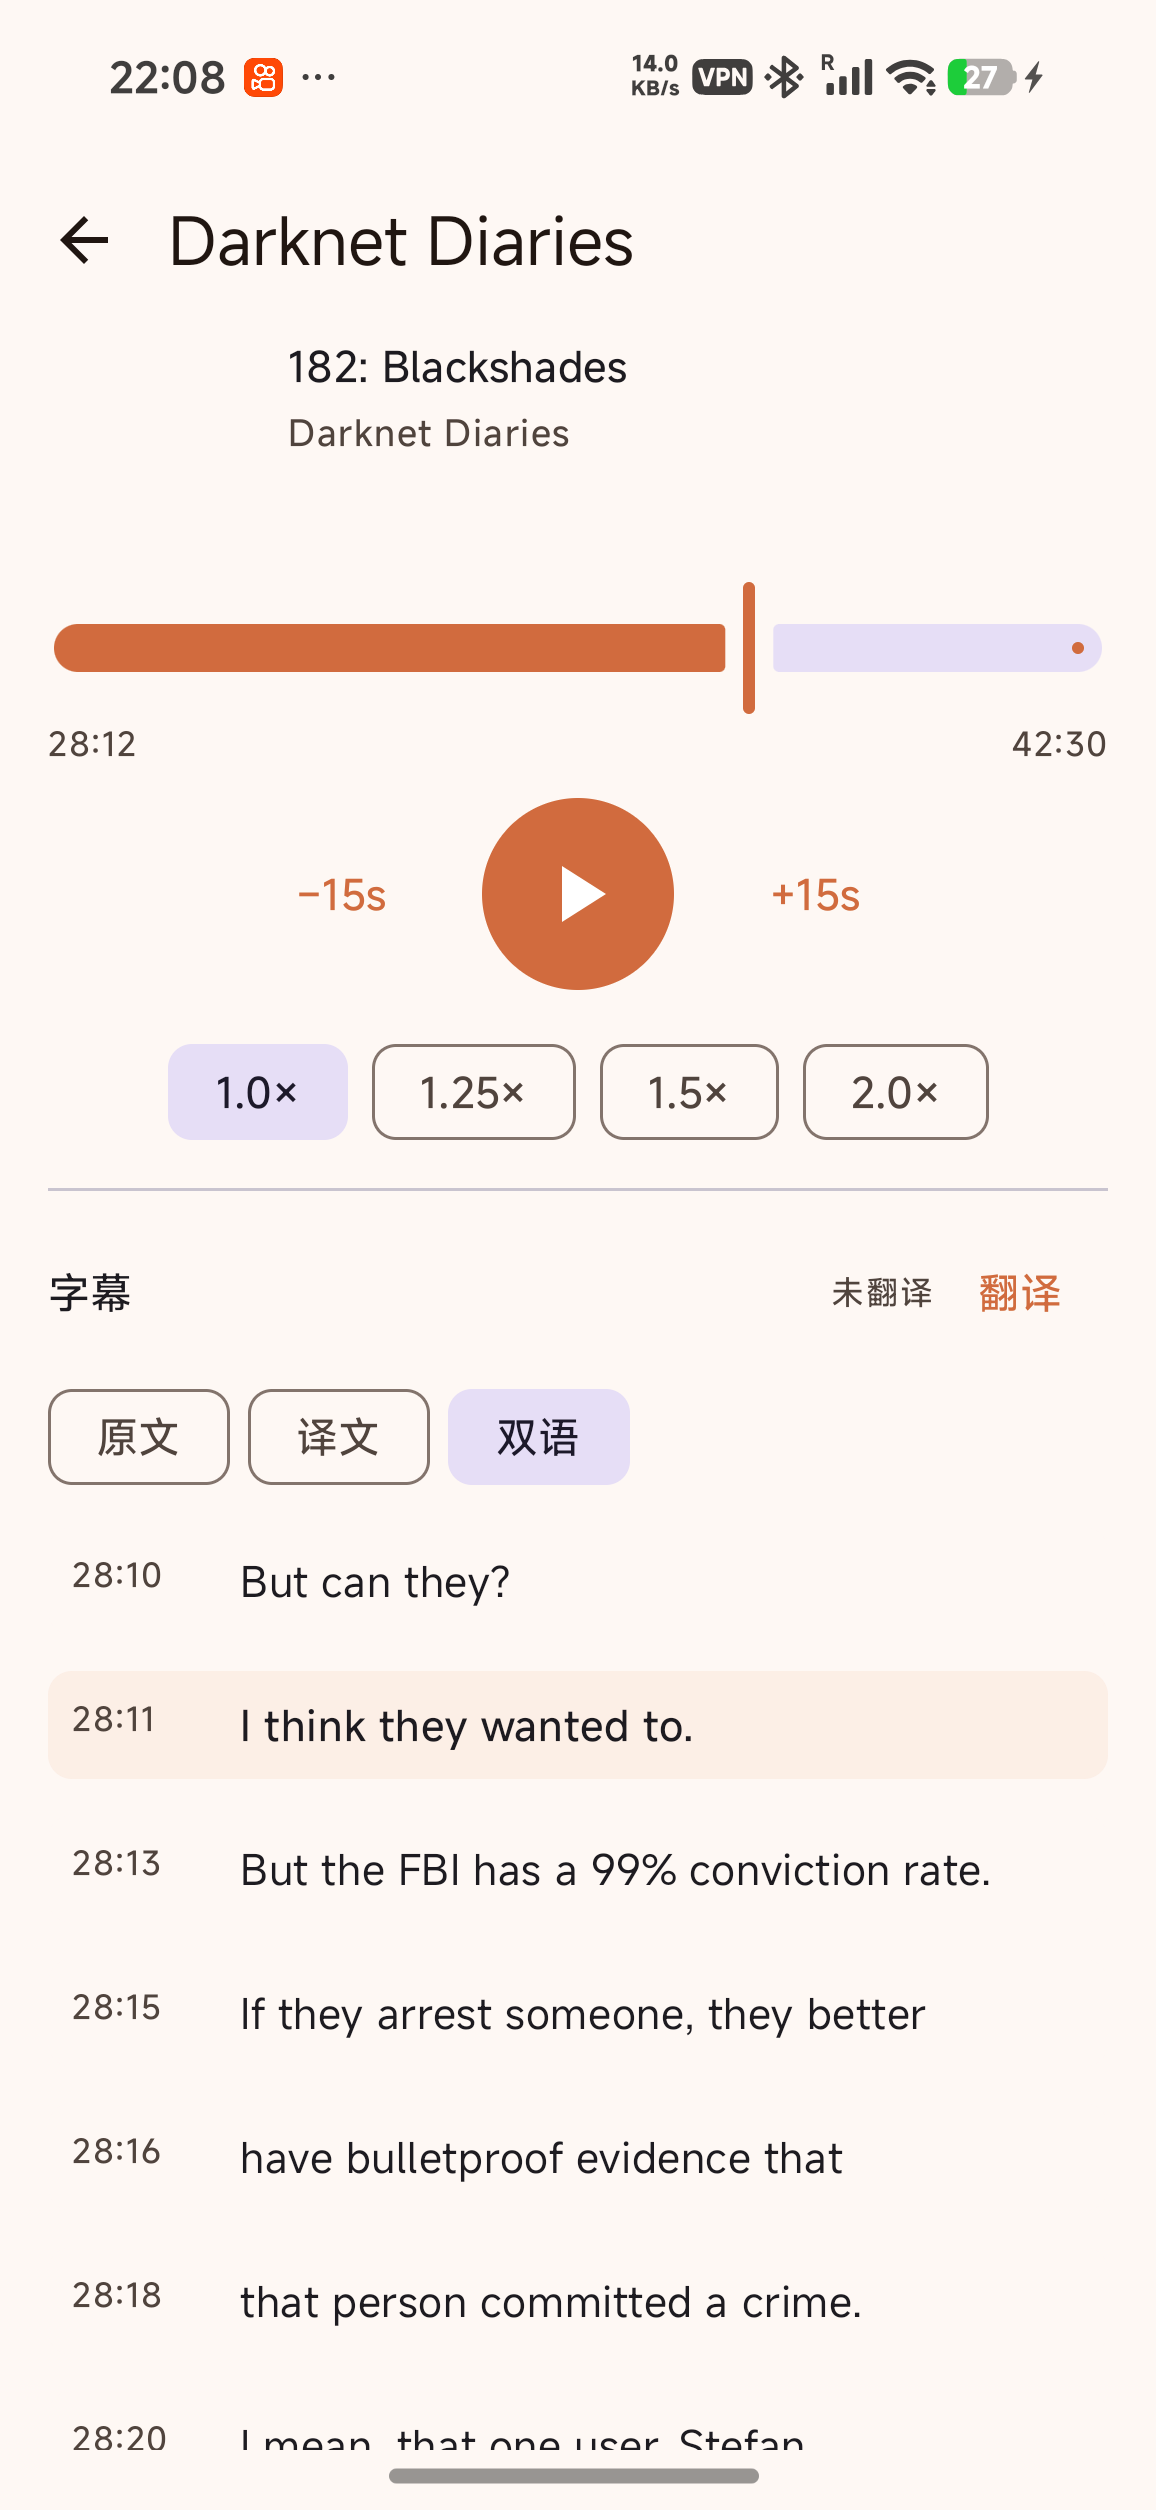
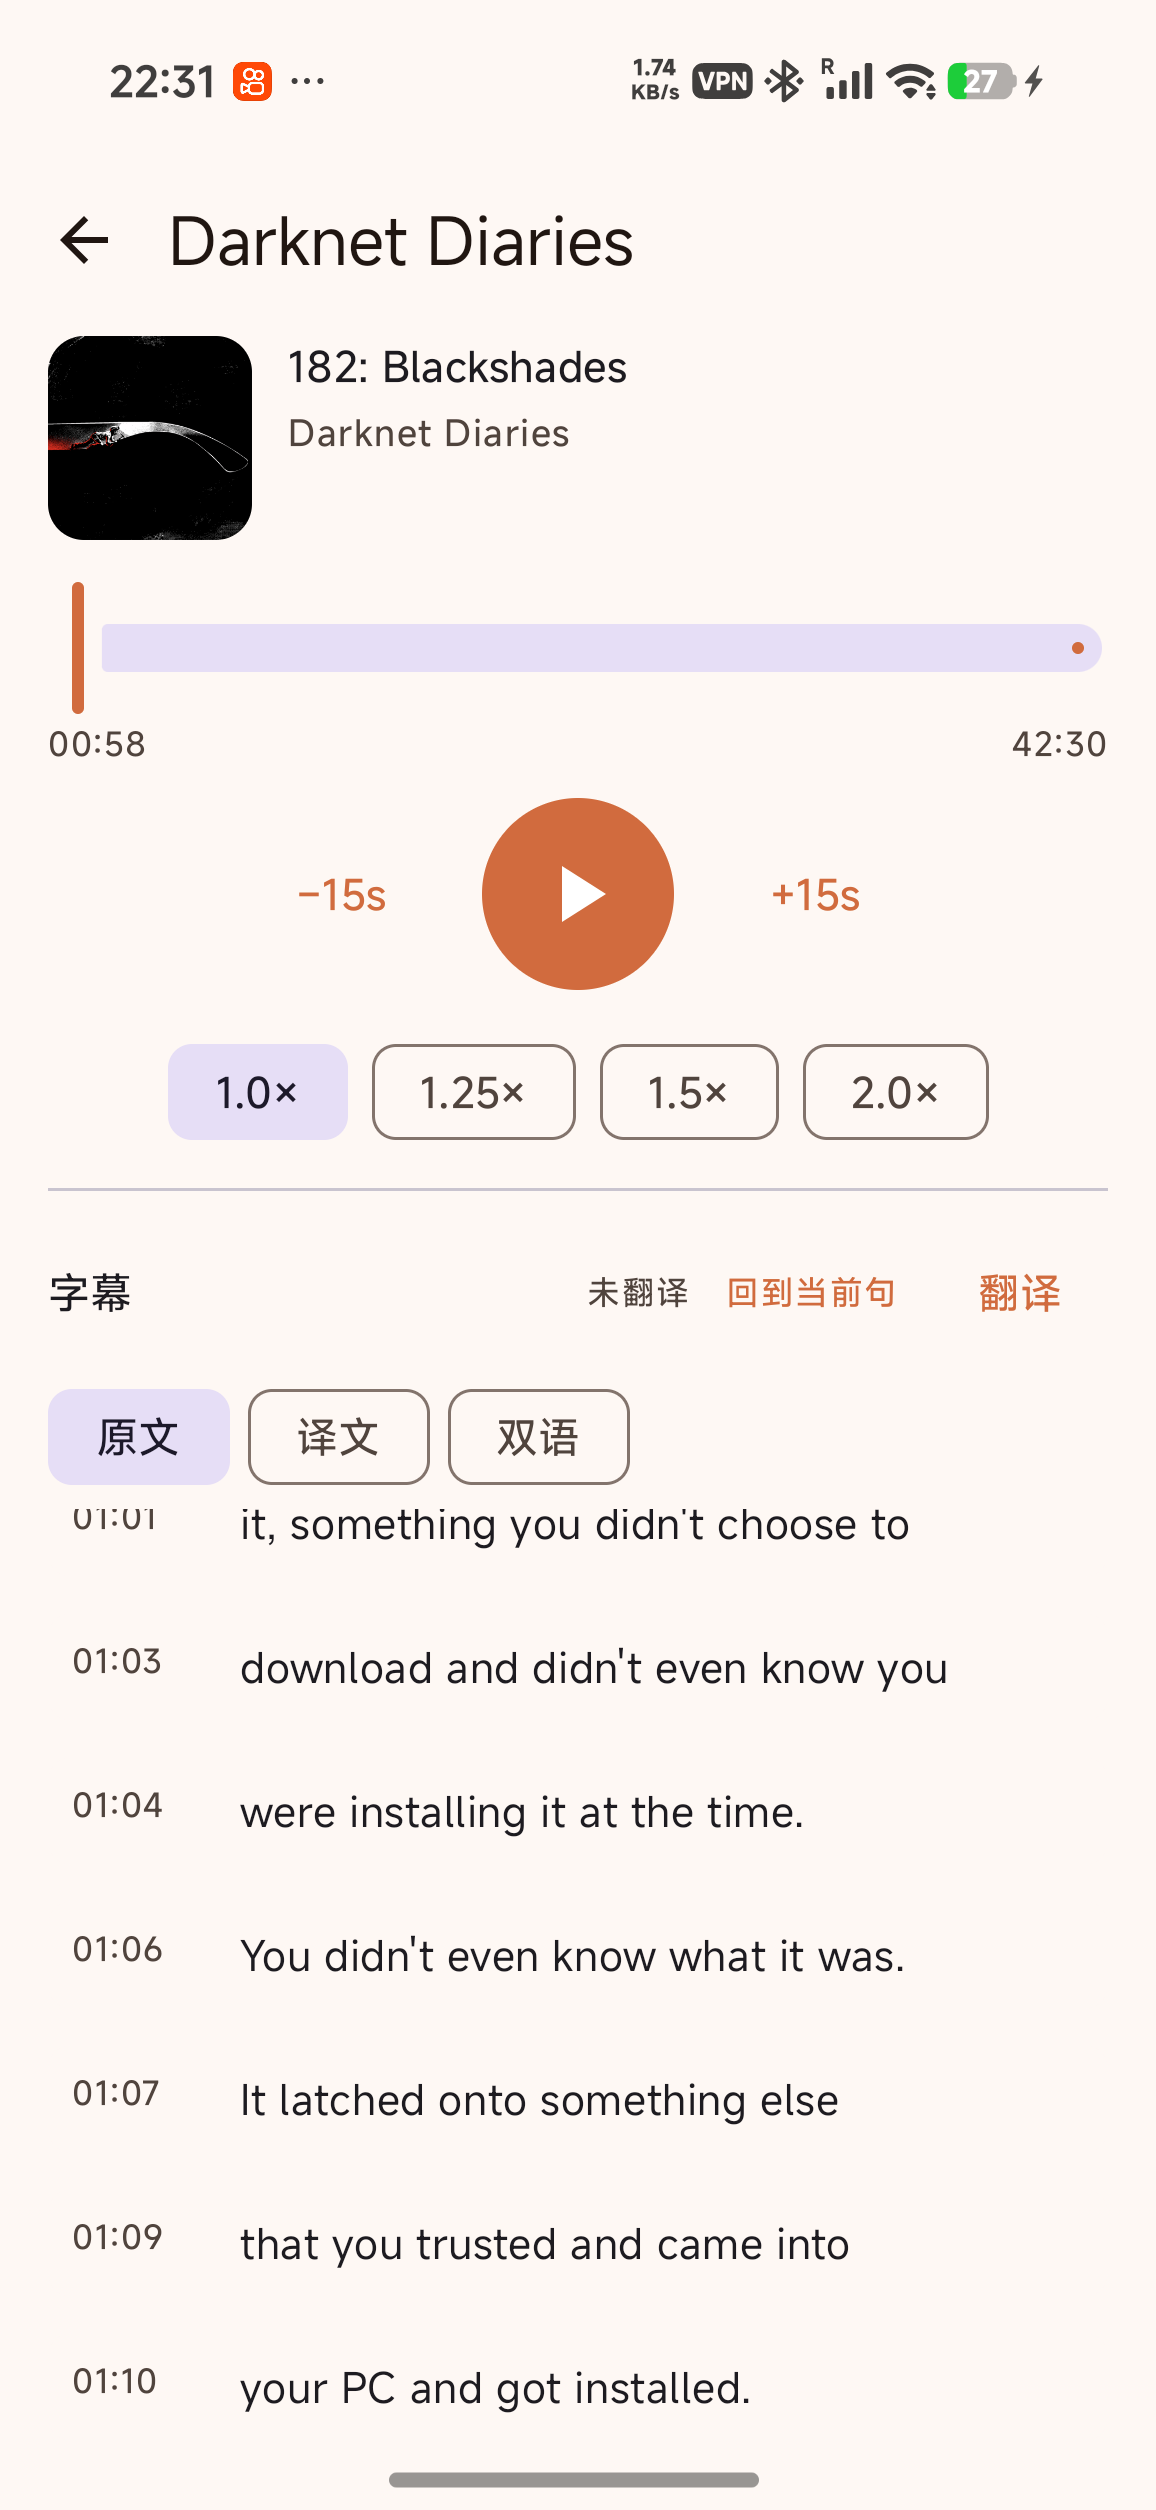
fix: keep subtitle follow off after manual scroll; move back-to-current into header

diff --git a/app/src/main/java/app/mocast/ui/PlayerScreen.kt b/app/src/main/java/app/mocast/ui/PlayerScreen.kt
@@ -65,6 +65,7 @@ fun PlayerScreen(
     val total = if (state.durationMs > 0) state.durationMs else 1L
     var scrub by remember(state.currentEpisode?.id) { mutableStateOf<Float?>(null) }
     val listState = rememberLazyListState()
+    var autoFollow by remember(state.currentEpisode?.id) { mutableStateOf(true) }
 
     Scaffold(
         containerColor = MaterialTheme.colorScheme.background,
@@ -204,6 +205,11 @@ fun PlayerScreen(
                         color = MaterialTheme.colorScheme.onSurfaceVariant
                     )
                     if (state.transcriptStatus == TranscriptStatus.Ready) {
+                        if (!autoFollow) {
+                            TextButton(onClick = { autoFollow = true }) {
+                                Text("回到当前句", style = MaterialTheme.typography.labelSmall)
+                            }
+                        }
                         TextButton(
                             enabled = state.translationStatus != TranslationStatus.Loading,
                             onClick = onTranslate
@@ -256,25 +262,20 @@ fun PlayerScreen(
 
                 TranscriptStatus.Ready -> {
                     val activeIndex = state.cues.indexOfLast { it.startMs <= state.positionMs }
-                    var autoFollow by remember { mutableStateOf(true) }
                     var programmatic by remember { mutableStateOf(false) }
 
-                    // 播放推进到新句时把当前句滚进视野；用户手动滑动后暂停 4 秒再恢复
+                    // 播放推进到新句时把当前句滚进视野；用户手动滑动后停止跟随，点「回到当前句」恢复
                     LaunchedEffect(activeIndex, autoFollow) {
                         if (!autoFollow || activeIndex < 0 || state.cues.isEmpty()) return@LaunchedEffect
                         val target = (activeIndex - 1).coerceAtLeast(0)
                         if (target != listState.firstVisibleItemIndex) {
                             programmatic = true
-                            listState.animateScrollToItem(target)
+                            listState.scrollToItem(target)
                             programmatic = false
                         }
                     }
                     LaunchedEffect(listState.isScrollInProgress) {
-                        if (listState.isScrollInProgress && !programmatic) {
-                            autoFollow = false
-                            delay(4000)
-                            autoFollow = true
-                        }
+                        if (listState.isScrollInProgress && !programmatic) autoFollow = false
                     }
 
                     Box(Modifier.fillMaxSize()) {
@@ -318,19 +319,9 @@ fun PlayerScreen(
                             }
                         }
                     }
-
-                    // 手动滑动后 4 秒内不自动跟随，给一个「回到当前句」的入口
-                    if (!autoFollow) {
-                        TextButton(
-                            onClick = { autoFollow = true },
-                            modifier = Modifier.align(Alignment.TopEnd).padding(8.dp)
-                        ) {
-                            Text("回到当前句", style = MaterialTheme.typography.labelSmall)
-                        }
-                    }
-                    }
                 }
             }
         }
     }
+}
 }

diff --git a/docs/技术方案.md b/docs/技术方案.md
@@ -179,7 +179,7 @@ $env:JAVA_HOME = "D:\Program Files\Android Studio\jbr"
 | 取消订阅 | 详情页右上删除 → 确认弹窗 → 取消不删；确认后节目与单集缓存移除，播放进度保留 |
 | 播完自动下一集 | Huberman 首集拖到片尾 → 自动切到下一集（Essentials，38:51）并开始播放 |
 | 进度条 | 修复前恒满格、点按只跳 0；加 `valueRange` 后位置与拖动 seek 正确 |
-| 字幕跟随 | 播放推进时列表自动滚到当前句；手动滑动后暂停跟随 4 秒，右下「回到当前句」可立即归位；拖动进度条跳转后列表同步跳转 |
+| 字幕跟随 | 播放推进时列表自动跳到当前句；手动滑动后停止跟随（不再抢滚），字幕标题栏出现「回到当前句」，点一下跳回并恢复跟随，换集自动重置；拖动进度条跳转后列表同步跳转 |
 | 暂停落盘 | `progress` 存成二次转义字符串会抛 `JSONException` 崩主线程；`Store.readProgress` 增加转义修复与空表兜底，暂停/退出不再崩 |
 
 验收方式说明：真机 `adb install` / `pm install` 均 `INSTALL_FAILED_USER_RESTRICTED`，只能 push APK + installer intent 手动确认安装；测试用 mock OpenAI 兼容服务（`adb reverse` 到本机），真实服务商 Key 下的翻译质量与超长集稳定性未验证。
